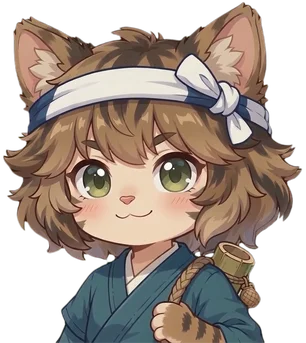
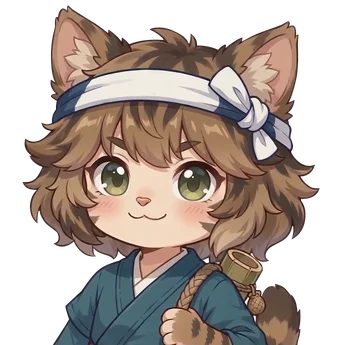
阿桨换成 24 帧整段循环
每帧 150 毫秒，从第 1 帧一直循环，时长可在调参里改。旧的 29 帧和出场段已去掉。鲍大叔和试玩客人开关保持原样。

diff --git a/game/src/cast.ts b/game/src/cast.ts
@@ -26,15 +26,12 @@ const baoFrames = loadSorted(baoRaw)
 /** 鲍大叔：按 PS 时间轴逐帧时长，从第 1 帧一直循环。0 是 0 秒帧，播放时换成调参。 */
 const BAO_DURATIONS = [70, 0, 0, 0, 0, 0, 0, 70, 70, 70, 70, 70, 70]
 
-/** 阿桨：出场先播完整段，再循环眨眼段。起止帧和帧率由调用处按调参覆盖。 */
+/** 阿桨：24 帧整段循环，每帧时长由调参决定，没有出场段。 */
 const ajiangSheet: SpriteSheet = {
   ...staticSheet('boatman', ajiangRaw[Object.keys(ajiangRaw).sort()[0] ?? ''] ?? ''),
   frames: Math.max(1, ajiangFrames.length),
-  fps: 12,
-  introStart: 0,
-  introEnd: Math.max(0, ajiangFrames.length - 1),
-  loopStart: Math.min(20, Math.max(0, ajiangFrames.length - 1)),
-  loopEnd: Math.max(0, ajiangFrames.length - 1),
+  fps: 0,
+  frameDurations: Array.from({ length: Math.max(1, ajiangFrames.length) }, () => 150),
 }
 
 const baoSheet: SpriteSheet = {
@@ -74,13 +71,28 @@ export const avatarSheet: SpriteSheet = staticSheet('avatar', avatarUrl)
 export interface SpritePlayback {
   /** 这位客人第一次出现的时刻。序列帧用它算出场段和循环段。 */
   startedAt?: number
-  fps?: number
-  introStart?: number
-  introEnd?: number
-  loopStart?: number
-  loopEnd?: number
+  /** 阿桨每一帧的毫秒。整段按这个时长循环。 */
+  frameMs?: number
   /** PS 里标成 0 秒的帧，实际播这么多毫秒。 */
   zeroFrameMs?: number
+}
+
+/**
+ * 新序列帧几乎是方的，旧的 306×343 在方框里是靠高撑满、水平居中。
+ * 按头带中心和头带宽把新图缩到同一位置，宽高比不变。
+ */
+function ajiangDest(dest: SpriteDest): SpriteDest {
+  const side = Math.min(dest.w, dest.h)
+  const ox = dest.x + (dest.w - side) / 2
+  const oy = dest.y + (dest.h - side) / 2
+  const oldDw = 306 / 343
+  const oldDx = (1 - oldDw) / 2
+  const bandCx = oldDx + 0.507 * oldDw
+  const bandCy = 0.274
+  const bandW = 0.562 * oldDw
+  const w = (bandW / 0.476) * side
+  const h = w * (345 / 347)
+  return { x: ox + (bandCx - 0.457 * (w / side)) * side, y: oy + (bandCy - 0.267 * (h / side)) * side, w, h }
 }
 
 export function drawCharacter(
@@ -95,18 +107,15 @@ export function drawCharacter(
   const sheet = characterSheet(id)
   if (!sheet) return false
   if (id === 'boatman' && ajiangFrames.length > 1) {
+    const ms = Math.max(1, playback?.frameMs ?? 150)
     const playing: SpriteSheet = {
-      ...sheet,
-      fps: playback?.fps ?? sheet.fps,
-      introStart: playback?.introStart ?? sheet.introStart,
-      introEnd: playback?.introEnd ?? sheet.introEnd,
-      loopStart: playback?.loopStart ?? sheet.loopStart,
-      loopEnd: playback?.loopEnd ?? sheet.loopEnd,
+      ...ajiangSheet,
+      frameDurations: Array.from({ length: ajiangFrames.length }, () => ms),
     }
-    const index = spriteFrameIndex(playing, now, playback?.startedAt ?? now)
+    const index = spriteFrameIndex(playing, now, playback?.startedAt ?? 0)
     const frame = ajiangFrames[index]
     if (frame && (frame.naturalWidth || 0) > 0) {
-      drawSprite(ctx, frame, { ...playing, frames: 1, fps: 0 }, dest, now, 'contain')
+      drawSprite(ctx, frame, { ...playing, frames: 1, fps: 0, frameDurations: undefined }, ajiangDest(dest), now, 'fill')
       return true
     }
   }

diff --git a/game/src/tuner.ts b/game/src/tuner.ts
@@ -362,52 +362,16 @@ export const SLIDERS: SliderSpec[] = [
     text: (v) => v.toFixed(2),
   },
   {
-    id: 'ajiangFps',
-    label: '阿桨帧率',
-    min: 4,
-    max: 24,
-    step: 1,
-    get: (c) => c.economy.ajiangFps ?? 12,
+    id: 'ajiangFrameMs',
+    label: '阿桨帧时长',
+    min: 40,
+    max: 400,
+    step: 10,
+    get: (c) => c.economy.ajiangFrameMs ?? 150,
     set: (c, v) => {
-      c.economy.ajiangFps = v
+      c.economy.ajiangFrameMs = v
     },
-    text: (v) => `${Math.round(v)} fps`,
-  },
-  {
-    id: 'ajiangIntroStart',
-    label: '阿桨出场起帧',
-    min: 0,
-    max: 28,
-    step: 1,
-    get: (c) => c.economy.ajiangIntroStart ?? 0,
-    set: (c, v) => {
-      c.economy.ajiangIntroStart = v
-    },
-    text: (v) => `${Math.round(v)}`,
-  },
-  {
-    id: 'ajiangIntroEnd',
-    label: '阿桨出场止帧',
-    min: 0,
-    max: 28,
-    step: 1,
-    get: (c) => c.economy.ajiangIntroEnd ?? 28,
-    set: (c, v) => {
-      c.economy.ajiangIntroEnd = v
-    },
-    text: (v) => `${Math.round(v)}`,
-  },
-  {
-    id: 'ajiangLoopStart',
-    label: '阿桨循环起帧',
-    min: 0,
-    max: 28,
-    step: 1,
-    get: (c) => c.economy.ajiangLoopStart ?? 20,
-    set: (c, v) => {
-      c.economy.ajiangLoopStart = v
-    },
-    text: (v) => `${Math.round(v)}`,
+    text: (v) => `${Math.round(v)} 毫秒`,
   },
   {
     id: 'baoZero',
@@ -432,18 +396,6 @@ export const SLIDERS: SliderSpec[] = [
       c.economy.testOrderGuests = v >= 1 ? 1 : 0
     },
     text: (v) => (v >= 1 ? '阿桨 + 鲍大叔' : '关'),
-  },
-  {
-    id: 'ajiangLoopEnd',
-    label: '阿桨循环止帧',
-    min: 0,
-    max: 28,
-    step: 1,
-    get: (c) => c.economy.ajiangLoopEnd ?? 28,
-    set: (c, v) => {
-      c.economy.ajiangLoopEnd = v
-    },
-    text: (v) => `${Math.round(v)}`,
   },
   {
     id: 'guestCanvas',

diff --git a/game/tests/sprite.test.ts b/game/tests/sprite.test.ts
@@ -44,4 +44,17 @@ describe('角色序列帧接口', () => {
     expect(spriteFrameIndex(sheet, loop, 0)).toBe(0)
     expect(spriteFrameIndex(sheet, loop + 71, 0)).toBe(1)
   })
+
+  it('阿桨 24 帧按统一时长整段循环', () => {
+    const sheet = {
+      ...staticSheet('ajiang', 'frame.webp'),
+      frames: 24,
+      fps: 0,
+      frameDurations: Array.from({ length: 24 }, () => 150),
+    }
+    expect(spriteFrameIndex(sheet, 0, 0)).toBe(0)
+    expect(spriteFrameIndex(sheet, 150, 0)).toBe(1)
+    expect(spriteFrameIndex(sheet, 150 * 23, 0)).toBe(23)
+    expect(spriteFrameIndex(sheet, 150 * 24, 0)).toBe(0)
+  })
 })

diff --git a/game/src/types.ts b/game/src/types.ts
@@ -230,11 +230,8 @@ export interface Economy {
   speed4Level: number
   /** 客人 1024 画布缩到设计稿上的比例。0.29 时宽约 297。 */
   guestCanvasScale: number
-  ajiangFps: number
-  ajiangIntroStart: number
-  ajiangIntroEnd: number
-  ajiangLoopStart: number
-  ajiangLoopEnd: number
+  /** 阿桨每一帧播多久。整段 0→23 按这个时长循环，没有出场段。 */
+  ajiangFrameMs: number
   /** PS 时间轴里标成 0 秒的帧，实际播放毫秒。鲍大叔眨眼用。 */
   baoZeroFrameMs: number
   /** 1 时订单区固定出现阿桨和鲍大叔，方便看序列帧。默认 0。 */

diff --git a/game/src/draw.ts b/game/src/draw.ts
@@ -718,11 +718,7 @@ function drawHecheng(model: RenderModel): void {
     if (who && portrait && portraitReady(portrait)) {
       drawCharacter(ctx, who.portrait, portrait, guest, realNow, 'contain', {
         startedAt: guestSeen.get(order.id),
-        fps: cfg.economy.ajiangFps,
-        introStart: cfg.economy.ajiangIntroStart,
-        introEnd: cfg.economy.ajiangIntroEnd,
-        loopStart: cfg.economy.ajiangLoopStart,
-        loopEnd: cfg.economy.ajiangLoopEnd,
+        frameMs: cfg.economy.ajiangFrameMs,
         zeroFrameMs: cfg.economy.baoZeroFrameMs,
       })
     }
